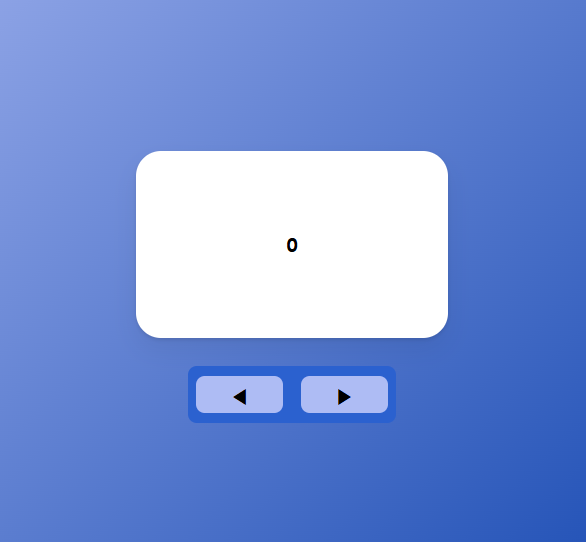
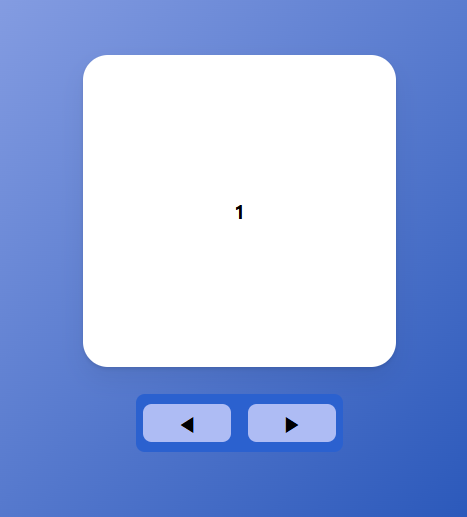
Slider 예제, 레포트 업데이트

Changed region(s): [[0.1799, 0.0928, 0.8694, 0.8975], [0.5096, 0.4023, 0.5396, 0.4333], [0.4797, 0.4333, 0.5096, 0.4642]]

diff --git a/src/exams/Slider.tsx b/src/exams/Slider.tsx
@@ -14,7 +14,7 @@ const Wrapper = styled.div`
     );
 `;
 
-const Box = styled(motion.div)`
+const Tab = styled(motion.div)`
     display: flex;
 	justify-content: center;
 	align-items: center;
@@ -55,11 +55,11 @@ const Btn = styled.button`
     }
 `;
 
-const BoxVariants = {
-    initial: {
+const TabVariants = {
+    initial: (isNext: boolean) => ({
         opacity: 0,
-        x: 100
-    },
+        x: (isNext ? 100 : -100)
+    }),
     changeTabs: {
         opacity: 1,
         x: 0,
@@ -68,38 +68,40 @@ const BoxVariants = {
             duration: 0.6
         }
     },
-    exitTabs: {
+    exitTabs: (isNext: boolean) => ({
         opacity: 0,
-        x: -100,
+        x: (isNext ? -100 : 100),
         transition: {
             duration: 0.5
         }
-    }
+    })
 };
 
 function Slider(){
-    const [Index, setIndex] = useState(1);
+    const [Index, setIndex] = useState(0);
+    const [isNext, setNext] = useState(false);
 
-    const nextTabs = () => {
+    const nextTabs = async () => {
+        await setNext(true);
         setIndex((values) => values === 9 ? 0 : values + 1);
     }
 
-    const prevTabs = () => {
+    const prevTabs = async () => {
+        await setNext(false);
         setIndex((values) => values === 0 ? 9 : values - 1);
     }
 
     return (
         <Wrapper>
             <AnimatePresence>
-                <Box 
+                <Tab
                     key={Index}
-                    variants={BoxVariants}
+                    variants={TabVariants}
                     initial="initial"
                     animate="changeTabs"
                     exit="exitTabs"
-                >
-                    {Index}
-                </Box>
+                    custom={isNext}
+                >{Index}</Tab>
             </AnimatePresence>
             <BtnContainer>
                 <Btn onClick={prevTabs}>◀</Btn>

diff --git a/reports/Slider.md b/reports/Slider.md
@@ -2,7 +2,7 @@
 ### Slider, Part 1
 
 - 이전 파트인 `AnimatePresence`에서 이어지는 내용입니다.
-- **[`AnimatePresence`](/AnimatePresence.md) 👈 이전 게시글**
+- **[`AnimatePresence`](/AnimatePresence.md) 👈 이전 내용**
 
 ---
 ### 예제 1
@@ -35,7 +35,7 @@ const Wrapper = styled.div`
 	);
 `;
 
-const Box = styled(motion.div)`
+const Tab = styled(motion.div)`
 	display: flex;
 	justify-content: center;
 	align-items: center;
@@ -63,7 +63,7 @@ const SliderBtns = styled.div`
 	background-color: rgb(43, 97, 207);
 `;
 
-const Btns = styled.button`
+const Btn = styled.button`
 	width: 70px;
 	height: 30px;
 	font-size: 16px;
@@ -83,15 +83,15 @@ export function SliderExam(){
 				{
 					Tabs.map((num) => {
 						return (
-							num === Index ? <Box>{num}</Box>
+							num === Index ? <Tab>{num}</Tab>
 							: null
 						);
 					})
 				}
 			</AnimatePresence>
 			<SliderBtns>
-				<Btns>◀</Btns>
-				<Btns>▶</Btns>
+				<Btn>◀</Btn>
+				<Btn>▶</Btn>
 			</SliderBtns>
 		</Wrapper>
 	);
@@ -99,18 +99,241 @@ export function SliderExam(){
 ```
 
 - 위의 예제에서 `state(Index)`의 값을 바꾸면
-- 그에 맞게 `<Box />`의 번호도 바뀐다.
+- 그에 맞게 `<Tab />`의 번호도 바뀐다.
 
-- 이제 버튼을 누르면, `<Box />`가 자동으로 다음 번호로 넘어가고
-- `<Box />`가 넘어가는 애니메이션 효과까지 추가해보겠다.
+- 이제 버튼을 누르면, 다음 번호의 `Tab`으로 넘어가는 기능과
+- `Tab`이 넘어가는 애니메이션 효과까지 추가해보자.
 
 ---
 
+#### 예제 업데이트 1 (`Tab` 슬라이드, 애니메이션 추가)
+
+``` tsx
+import {styled} from "styled-components";
+import {motion, AnimatePresence} from "framer-motion";
+
+const Wrapper = styled.div`...`;
+const Tab = styled(motion.div)`...`;
+const SliderBtns = styled.div`...`;
+const Btn = styled.button`...`;
+
+const TabVariants = {
+	initial: {
+		opacity: 0,
+		x: 100
+	},
+	changeTabs: {
+		opacity: 1,
+		x: 0,
+		transition: {
+			delay: 0.5,
+			duration: 0.6
+		}
+	},
+	exitTabs: {
+		opacity: 0,
+		x: -100,
+		transition: {
+			duration: 0.5
+		}
+	}
+};
+
+export function SliderExam(){
+	const [Index, setIndex] = useState(0);
+	
+	const nextTabs = () => {
+		setIndex((values) => values === 9 ? 0 : values + 1);
+	};
+	
+	const prevTabs = () => {
+		setIndex((values) => values === 0 ? 9 : values - 1);
+	}
+	
+	return (
+		<Wrapper>
+			<AnimatePresence>
+				<Tab 
+					key={Index}
+					variants={TabVariants}
+					initial="initial"
+					animate="changeTabs"
+					exit="exitTabs"
+				>{Index}</Tab>
+			</AnimatePresence>
+			<SliderBtns>
+				<Btn onClick={prevTabs}>◀</Btn>
+				<Btn onClick={nextTabs}>▶</Btn>
+			</SliderBtns>
+		</Wrapper>
+	);
+}
+```
+
+- `Tab`의 번호를 나타내던 `Tabs` 배열을 삭제하고
+
+- 대신 `Btn`의 `onClick` event Listener를 통해서 <br/>
+	현재 `Tab` 번호가 `0, 9` 둘 중 하나 인 상태에서, 범위를 초과하지 않도록 <br/>
+	번호가 `0`일 때 `이전` 버튼을 누르면, `9`번 `Tab`으로 넘어가고 <br/>
+	현재 `Tab` 번호가 `9`인 상태에서 `다음` 버튼을 누르면 `0`번이 되게 하였다.
+
+- 그 다음은 `TabVariants`에 애니메이션 코드를 작성하고 
+- `<Tab />`이 `DOM`에서 삭제될 때, 애니메이션이 실행될 수 있도록 <br/>
+	`<Tab />`을 `<AnimatePresence/>`로 감싸주었다.
+
+- 최종 실행 결과는 다음과 같이 나온다.
+
+<img src="refImgs/Slider/Slider_ver1.gif"/>
+
+- 예제를 실행하는 모습을 보면, 어떤 버튼을 누르던 <br/>
+	`Tab`이 한 방향으로만 움직이는 것을 볼 수 있다.
+
+- 각 버튼을 눌렀을 때, 누른 버튼에 따라 `Tab`이 다른 방향으로 움직이게 해보자.
+
+- 각 버튼 별로 애니메이션 효과를 만들 수는 없으니 <br/>
+	`<motion />` Component의 `custom`이라는 `props` 통해서 <br/>
+	누른 버튼에 따라 `<Tab />`을 다른 방향으로 이동하게 할 것이다.
+
+---
+
+#### 예제 업데이트 2 (`Tab` 애니메이션 수정)
+
+- **`<motion />, 'custom' property`**
+	- `Variants`에 동적인 값을 전달할 수 있는 `property`
+	- 단순 값 외에도 변수나 `state`도 전달 가능
+
+``` tsx
+const Variants = {
+	animate: (custom: boolean) => ({
+		opacity: 1,
+		x: custom ? 100 : -100
+	})
+}
+
+return (
+	<Wrapper>
+		<motion.div custom={true} variants={Variants}/>
+		<motion.div custom={false} variants={Variants}/>
+	</Wrapper>
+);
+```
+
+---
+
+- `custom`이 어떤 기능을 하는 지 알았으니, 이제 이를 적용해보자.
+
+- 특정 버튼의 클릭 여부를 확인하는 `state`를 하나 만들고 <br/>
+- 각 버튼의 `onClick Event Listener` 통해 해당 `state`의 값을 바꾸고 <br/>
+	`state`의 값에 따라서 이에 맞게 `<Tab />`의 위치를 각기 다르게 설정한다.
+
+- 코드를 통해서 확인해보자.
+
+``` tsx
+import {styled} from "styled-components";
+import {motion, AnimatePresence} from "framer-motion";
+
+const Wrapper = styled.div`...`;
+const Tab = styled(motion.div)`...`;
+const SliderBtns = styled.div`...`;
+const Btn = styled.button`...`;
+
+const TabVariants = {
+	initial: (isNext: boolean) => ({
+		opacity: 0,
+		x: (isNext ? 100 : -100)
+	}),
+	changeTabs: {
+		opacity: 1,
+		x: 0,
+		transition: {
+			delay: 0.5,
+			duration: 0.6
+		}
+	},
+	exitTabs: (isNext: boolean) => ({
+		opacity: 0,
+		x: (isNext ? -100 : 100),
+		transition: {
+			duration: 0.5
+		}
+	})
+};
+
+export function SliderExam(){
+	const [Index, setIndex] = useState(0);
+	const [isNext, setNext] = useState(false);
+	
+	const nextTabs = () => {
+		setNext(true);
+		setIndex((values) => values === 9 ? 0 : values + 1);
+	};
+	
+	const prevTabs = () => {
+		setNext(false);
+		setIndex((values) => values === 0 ? 9 : values - 1);
+	}
+	
+	return (
+		<Wrapper>
+			<AnimatePresence>
+				<Tab 
+					key={Index}
+					variants={TabVariants}
+					initial="initial"
+					animate="changeTabs"
+					exit="exitTabs"
+					custom={isNext}
+				>{Index}</Tab>
+			</AnimatePresence>
+			<SliderBtns>
+				<Btn onClick={prevTabs}>◀</Btn>
+				<Btn onClick={nextTabs}>▶</Btn>
+			</SliderBtns>
+		</Wrapper>
+	);
+};
+```
+
+- `[◀]`, 이전 `Tab` 버튼을 클릭하면, `Tab`이 왼쪽 방향으로 넘어가고
+- `[▶]`, 다음 `Tab` 버튼을 클릭하면, `Tab`이 오른쪽 방향으로 넘어간다.
+
+---
+
+#### `Tab` 전환 애니메이션 이슈
+
+<img src="refImgs/Slider/Slider_ver2.gif"/>
+
+- `[◀], [▶]` 버튼 어느 쪽이든 클릭한 뒤에, 해당 버튼과 반대되는 버튼 클릭 시
+-  `Tab` 전환 애니메이션이 자연스럽게 실행되지 않는 이슈가 생겼다.
+
+- 이는 버튼 클릭 여부를 관측하는 `state`의 `setState()` 함수를 <br/>
+	비동기로 동작하게끔 설정해서 해결할 수 있었다. <br/>
+
+``` tsx
+//수정한 부분만 발췌하였음.
+//next, prev button, onClick Event Listener만 수정하였음.
+
+function SliderExam(){
+	const nextTabs = async () => {
+		await setNext(true);
+		setIndex((values) => values === 9 ? 0 : values + 1);
+	};
+	
+	const prevTabs = async () => {
+		await setNext(false);
+		setIndex((values) => values === 0 ? 9 : values - 1);
+	};
+	
+	return (/*...*/)
+}
+```
+
+- 이제 예제를 확인해보면, `Tab` 전환이 자연스럽게 되는 것을 확인할 수 있다.
+
+<img src="refImgs/Slider/Slider_ver3.gif"/>
 
 
-
-
-
+---
 
 
 
